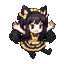
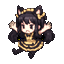
fix: メイド服fallの向きを左右反転（進行方向と逆＝後ろ向きを修正）(Ver.1.329)
- 右移動時にjumpは右向きなのにfallだけ左向きだった不整合を修正
- images/skin_maid_fall.png を左右反転しjumpと向きを統一
- sw.js CACHE_NAME を v1.329 に同期

diff --git a/games/piyo-adventure/index.html b/games/piyo-adventure/index.html
@@ -79,7 +79,7 @@
                 box-sizing: border-box;
             }
             body::after {
-                content: "Ver.1.328";
+                content: "Ver.1.329";
                 position: fixed;
                 bottom: 8px; right: 10px;
                 color: rgba(255,255,255,0.5);
@@ -757,7 +757,7 @@
                     color: #fff; font-size: clamp(7px, 1.2vw, 12px);
                     text-shadow: 2px 2px 4px rgba(0,0,0,0.8);
                     font-weight: bold;">
-                    <span style="background: rgba(0,0,0,0.4); padding: 2px 6px; border-radius: 5px;">Ver.1.328</span>
+                    <span style="background: rgba(0,0,0,0.4); padding: 2px 6px; border-radius: 5px;">Ver.1.329</span>
                 </div>
 
                 <!-- アップデートボタン：右上 -->

diff --git a/games/piyo-adventure/sw.js b/games/piyo-adventure/sw.js
@@ -1,4 +1,4 @@
-var CACHE_NAME = 'piyo-adventure-v1.328';
+var CACHE_NAME = 'piyo-adventure-v1.329';
 var STATIC_ASSETS = [
     './',
     './index.html',
